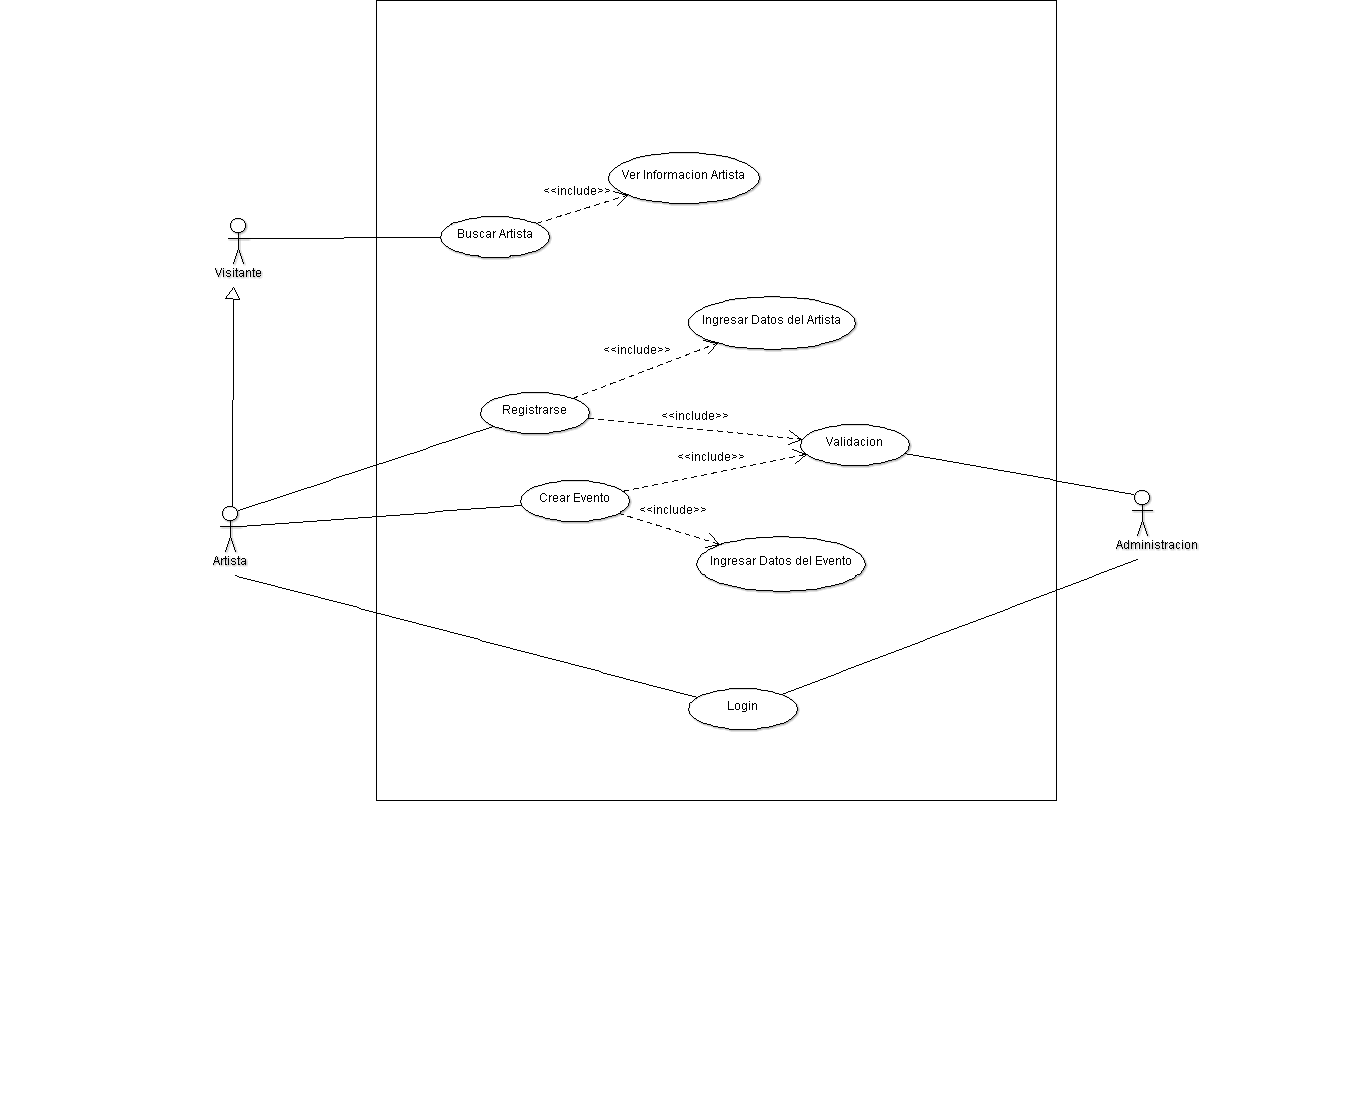
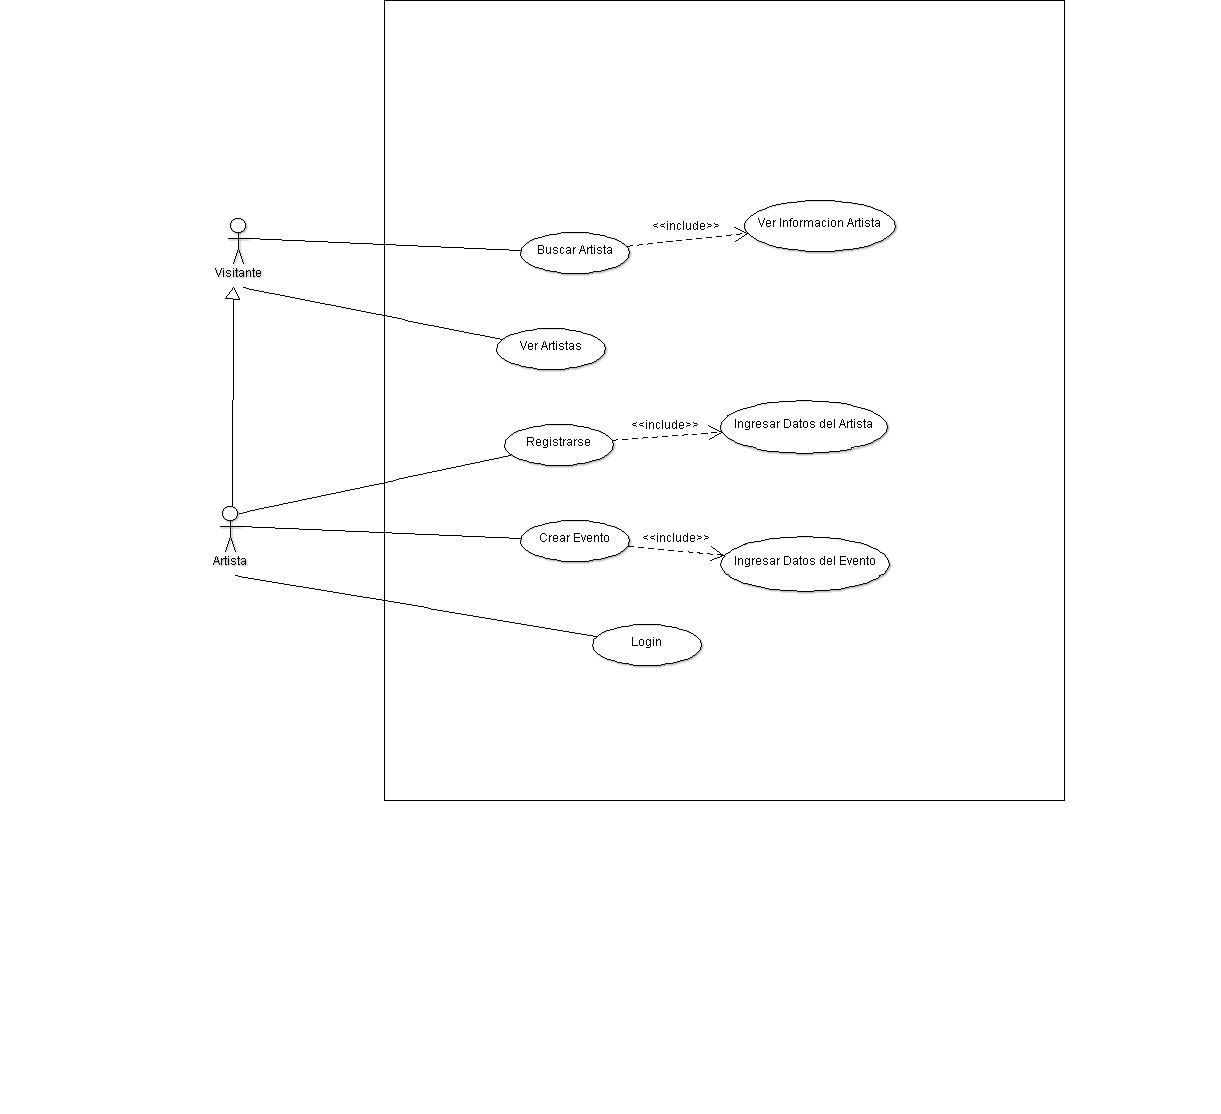
modificacion de casos y cambios para conversion

diff --git a/source/conf.py b/source/conf.py
@@ -30,7 +30,7 @@ import os
 # ones.
 extensions = [
     'sphinx.ext.todo',
-    'sphinx.ext.mathjax',
+    'rst2pdf.pdfbuilder',
 ]
 
 # Add any paths that contain templates here, relative to this directory.
@@ -209,6 +209,7 @@ latex_documents = [
    u'Alumno', 'manual'),
 ]
 
+pdf_documents = [('index',u'Documentacion',u'Documentación de proyecto',u'Edwin Joseleonardo Molina Martinez'),]
 # The name of an image file (relative to this directory) to place at the top of
 # the title page.
 #latex_logo = None

diff --git a/source/disenio.rst b/source/disenio.rst
@@ -3,24 +3,30 @@ Diseño de la aplicacíon
 
 Casos de Uso
 ------------
-Caso General
-^^^^^^^^^^^^
-  .. figure:: diagramas/DiagramaGeneral.png
-   :align:  center
-
 
 .. _referencia-a:
 
 Modulo Artistas
 ^^^^^^^^^^^^^^^
+
+Diagrama caso de uso, en el cual muestra como están organizadas las acciones
+que puede efectuar un visitante o Artistas, en el diagrama se muestra que artista hereda
+de Visitante esto quiere decir que el artista podrá buscar a otros artistas.
+
 .. figure:: diagramas/DiagramaArtista.png
  :align:  center
+
 
 
 .. _referencia-e:
 
 Modulo Eventos
 ^^^^^^^^^^^^^^^
+
+Diagrama caso de uso, se muestran las acciones que puede realizar un visitante
+y un artista, los artistas podrán visualizar los eventos ya creados así como crearlos.
+
+
 .. figure:: diagramas/DiagramaEvento.png
  :align:  center
 
@@ -28,6 +34,12 @@ Modulo Eventos
 
 Modulo Espacio Informativo
 ^^^^^^^^^^^^^^^^^^^^^^^^^^
+
+Diagrama caso de uso, se muestra que un administrador cargara o actualizara información
+estará visible tanto para visitantes como para artistas, la información tratara sobre
+temas culturales de Quetzaltenango.
+
+
 .. figure:: diagramas/DiagramaEspacio.png
  :align:  center
 
@@ -36,6 +48,11 @@ Modulo Espacio Informativo
 
 Modulo Administracion
 ^^^^^^^^^^^^^^^^^^^^^
+
+Diagrama caso de uso, se muestra lo que puede hacer un administrador dentro del sistema,
+la parte de generar estadísticas, serán generadas a partir de datos de los eventos, como
+votación o comentarios.
+
 .. figure:: diagramas/DiagramaAdministracion.png
  :align:  center
 Clases
